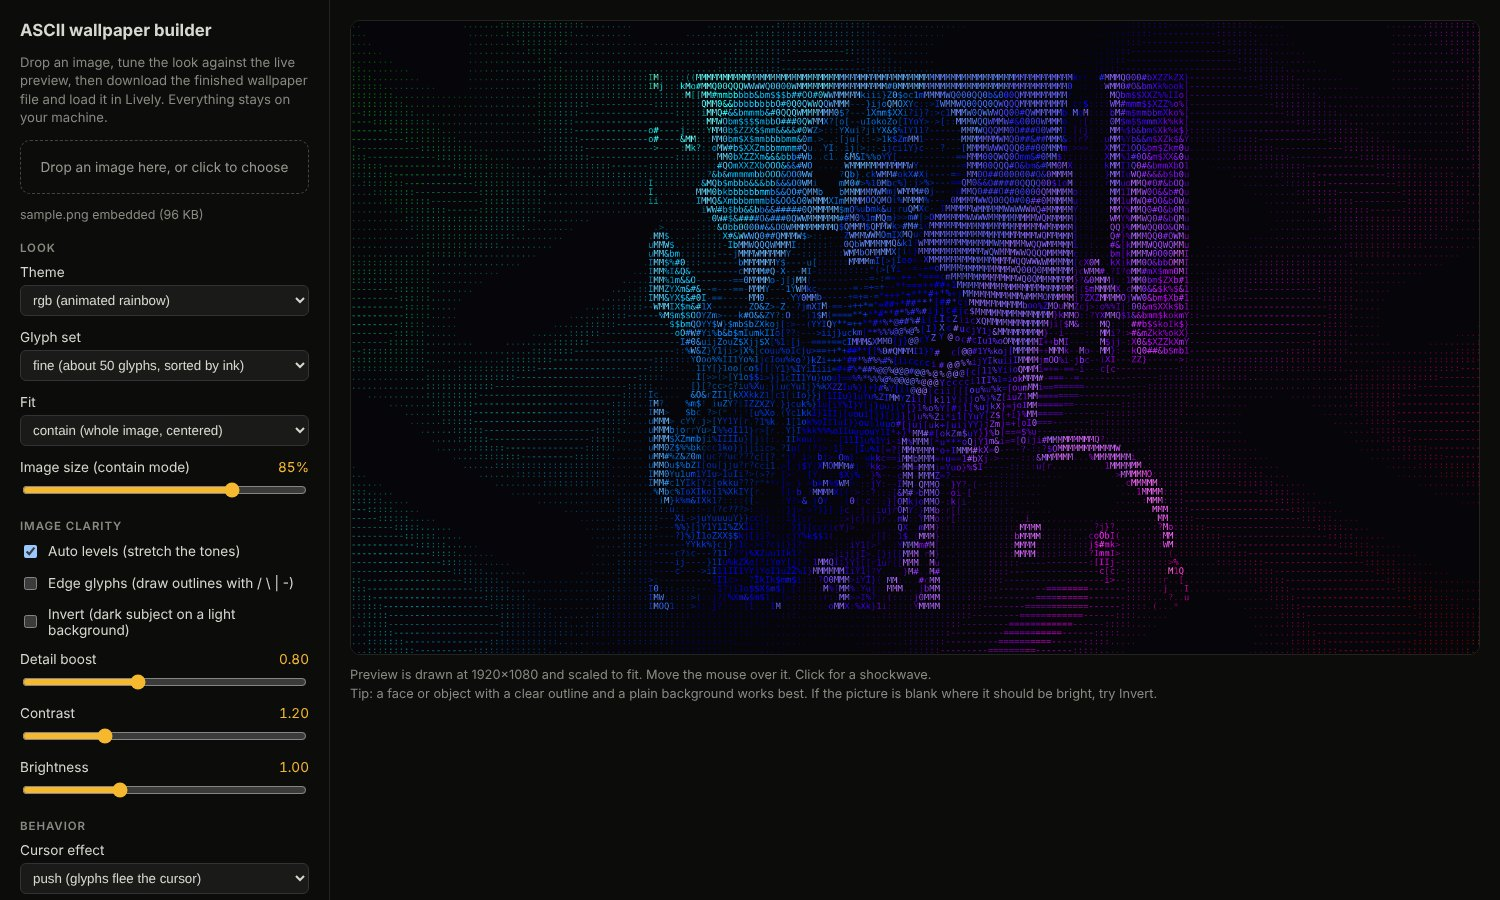
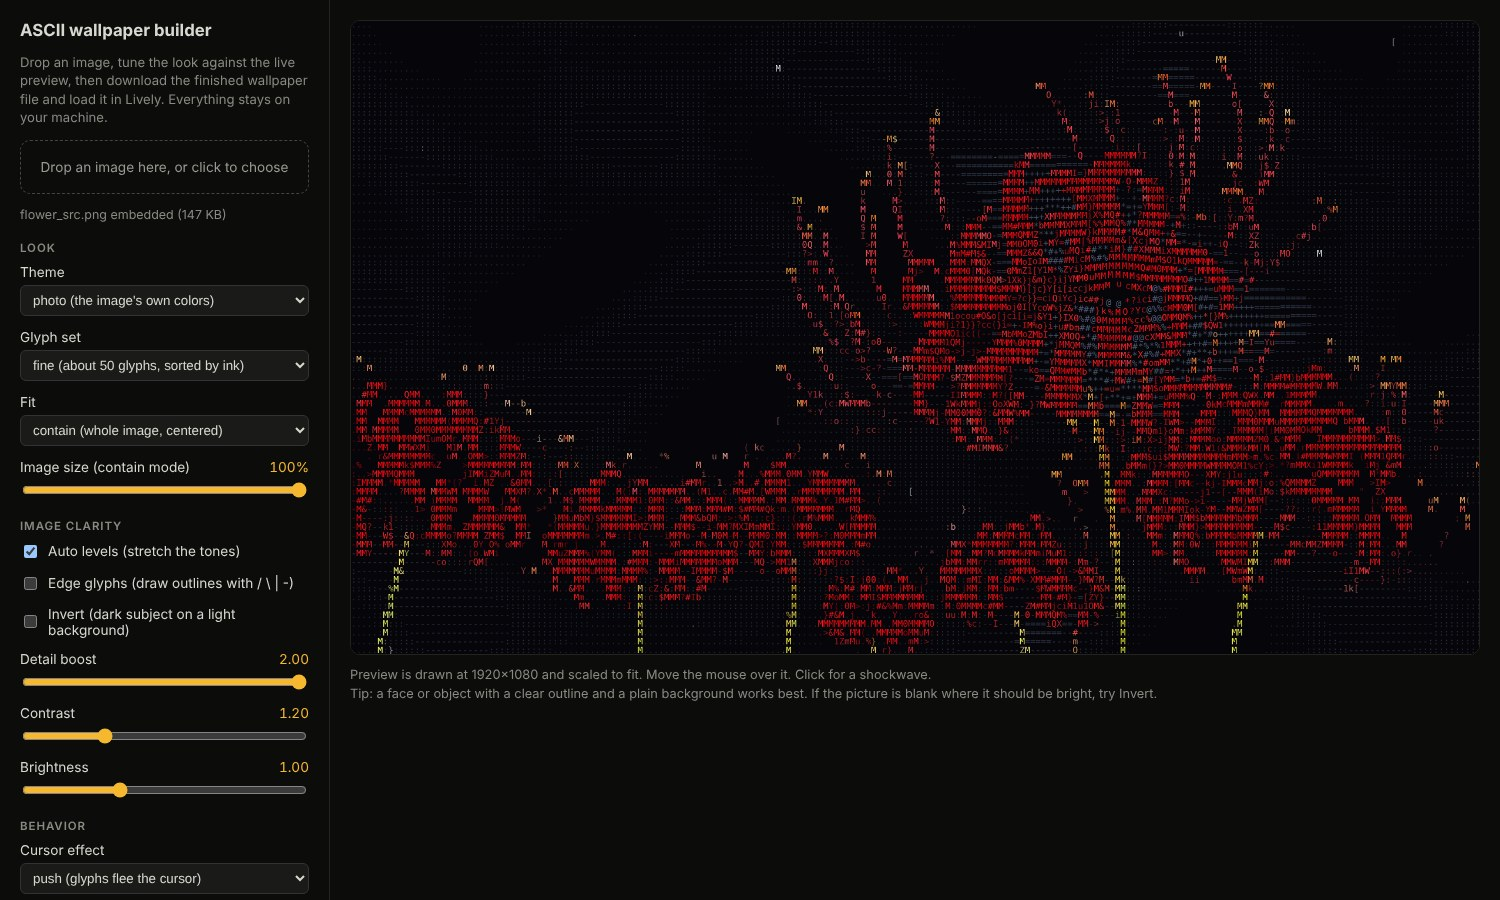
Update screenshots and credits

diff --git a/README.md b/README.md
@@ -4,6 +4,10 @@ Turn any picture into an **interactive ASCII-art desktop wallpaper** that reacts
 
 It is one self-contained HTML file: no install, no server, no dependencies, and **no network access**.
 
+![ASCII wallpaper running on a Windows desktop](docs/desktop.jpg)
+
+<sub>Running as a live wallpaper on a Windows desktop (via Lively). Artwork credit below.</sub>
+
 ![Builder](docs/builder.jpg)
 
 ## What it does
@@ -17,9 +21,13 @@ It is one self-contained HTML file: no install, no server, no dependencies, and 
 - **Settings:** save and load your look as a small JSON file (your last settings are also remembered in the browser).
 - **Light on the CPU:** frame cap plus an adaptive throttle that slows down when your machine struggles.
 
-| Cursor effects | Photo reveal |
-|---|---|
-| ![Effects](docs/effects.jpg) | ![Photo reveal](docs/photo-reveal.jpg) |
+**Cursor effects** (push, pull, lens, wake, flashlight):
+
+![Effects](docs/effects.jpg)
+
+**Photo reveal** (the original picture shows through around the cursor):
+
+![Photo reveal](docs/photo-reveal.jpg)
 
 ![Themes](docs/themes.jpg)
 
@@ -69,7 +77,8 @@ The suite drives a real headless Chromium: it renders every cursor effect and th
 
 ## Credits
 
-Test image: astronaut portrait of Eileen Collins, NASA, public domain (as distributed with [scikit-image](https://scikit-image.org/)).
+- Demo wallpaper: red spider lily artwork from [Wallhaven](https://wallhaven.cc/), uploaded by [leoscau](https://wallhaven.cc/user/leoscau). The original artist is not known to the author, and the artwork itself is not included in this repository, only ASCII renderings of it. If you are the artist and want it credited differently or removed, please open an issue.
+- Test and photo-reveal image: astronaut portrait of Eileen Collins, NASA, public domain (as distributed with [scikit-image](https://scikit-image.org/)).
 
 Made by Yasser Chettour.
 
